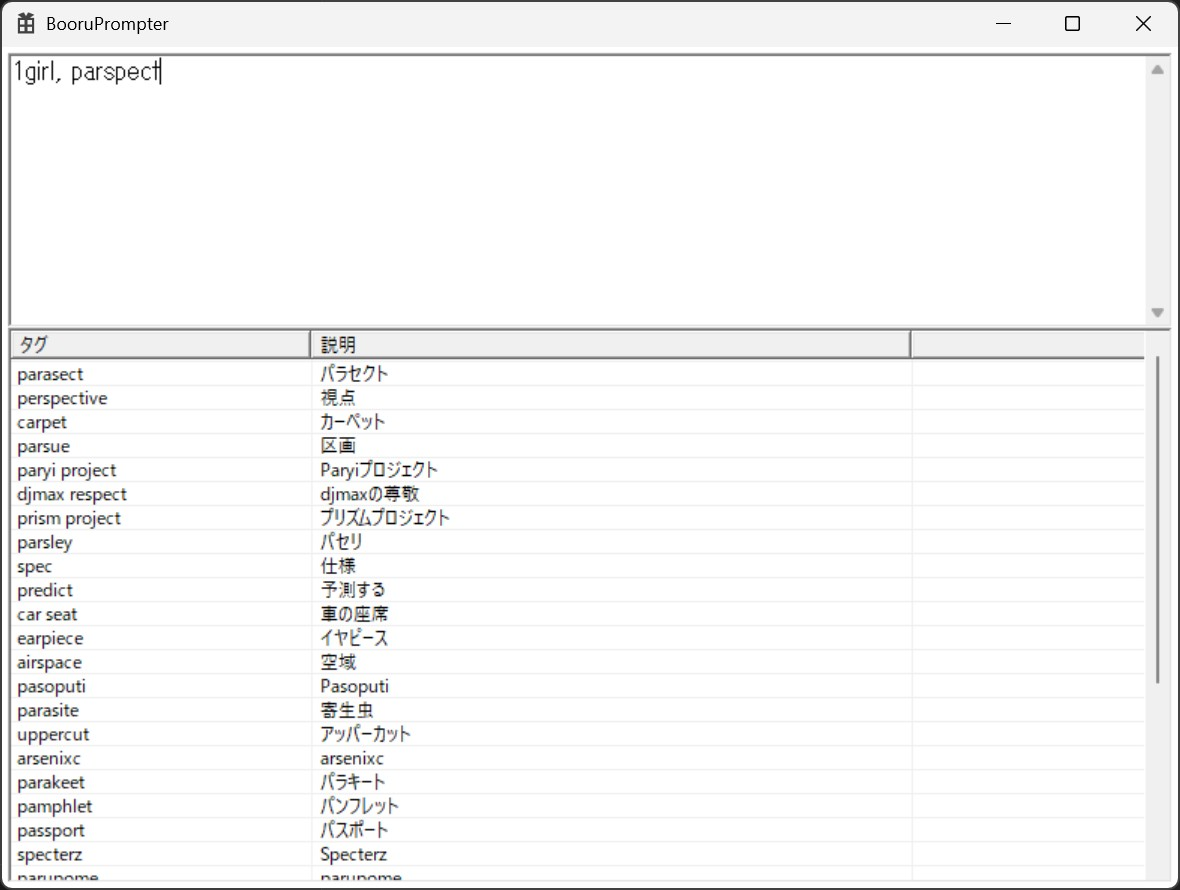
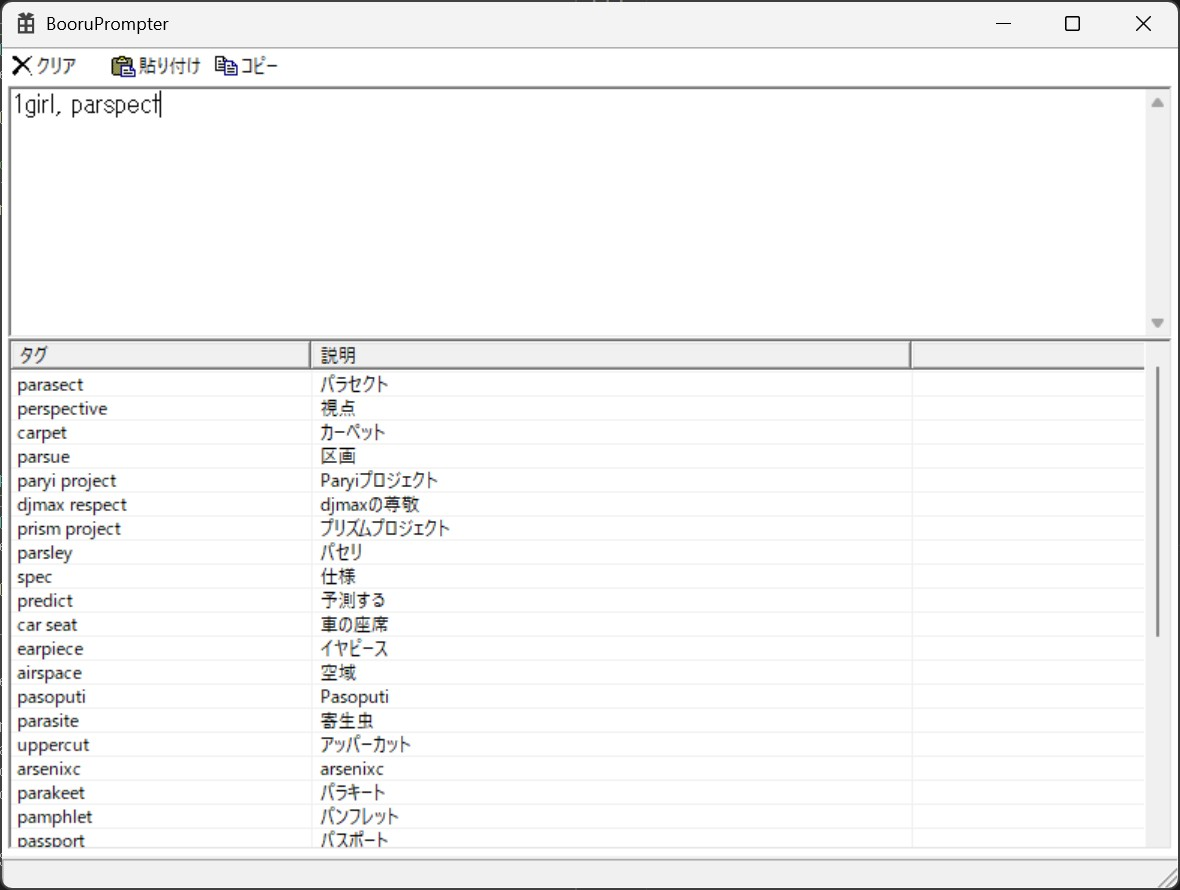
ドキュメント更新

diff --git a/README.md b/README.md
@@ -7,22 +7,27 @@
 ## 機能
 
 - 入力中タグのサジェストと日本語の意味表示
-- スペルが近いタグのサジェスト（少し遅れて表示されるけど充分はやい筈）
-- 日本語によるタグの検索（プロンプト欄に日本語を入れると勝手に……）
-- (WIP)コピーボタンとか後でつける
+- スペルが近いタグのサジェスト（あいまい検索）
+- 日本語によるタグの検索（プロンプト欄に日本語を入れるだけ）
 - (WIP)サジェストの数を設定できたり窓の位置を記憶したり
+- (WIP)代替や関連タグのサジェスト
 
-![サジェスト表示の例](docs/sample_normal_saggestion.jpg)
+<img src="docs/sample_normal_saggestion.jpg" width="30%">
+<img src="docs/sample_fuzzy_saggestion.jpg" width="30%">
+<img src="docs/sample_reverse_saggestion.jpg" width="30%">
+
 
 ## 必要条件
 - Windows 10以降
+- オフラインで動きます（通信とかしません）
+- GPU不要（LLMとか使ってません）
 
 ## 使用方法
 
 1. アプリケーションを起動
 2. タグ入力欄に文字を入力
 3. 候補からタグを選択（ダブルクリックで挿入）
-4. プロンプトをコピーして画像生成とかに持っていく（今はボタンとか無いから Ctrl+A→Ctrl+C してね）
+4. プロンプトをコピーして画像生成とかに持っていく
 
 ## ライセンス
 
